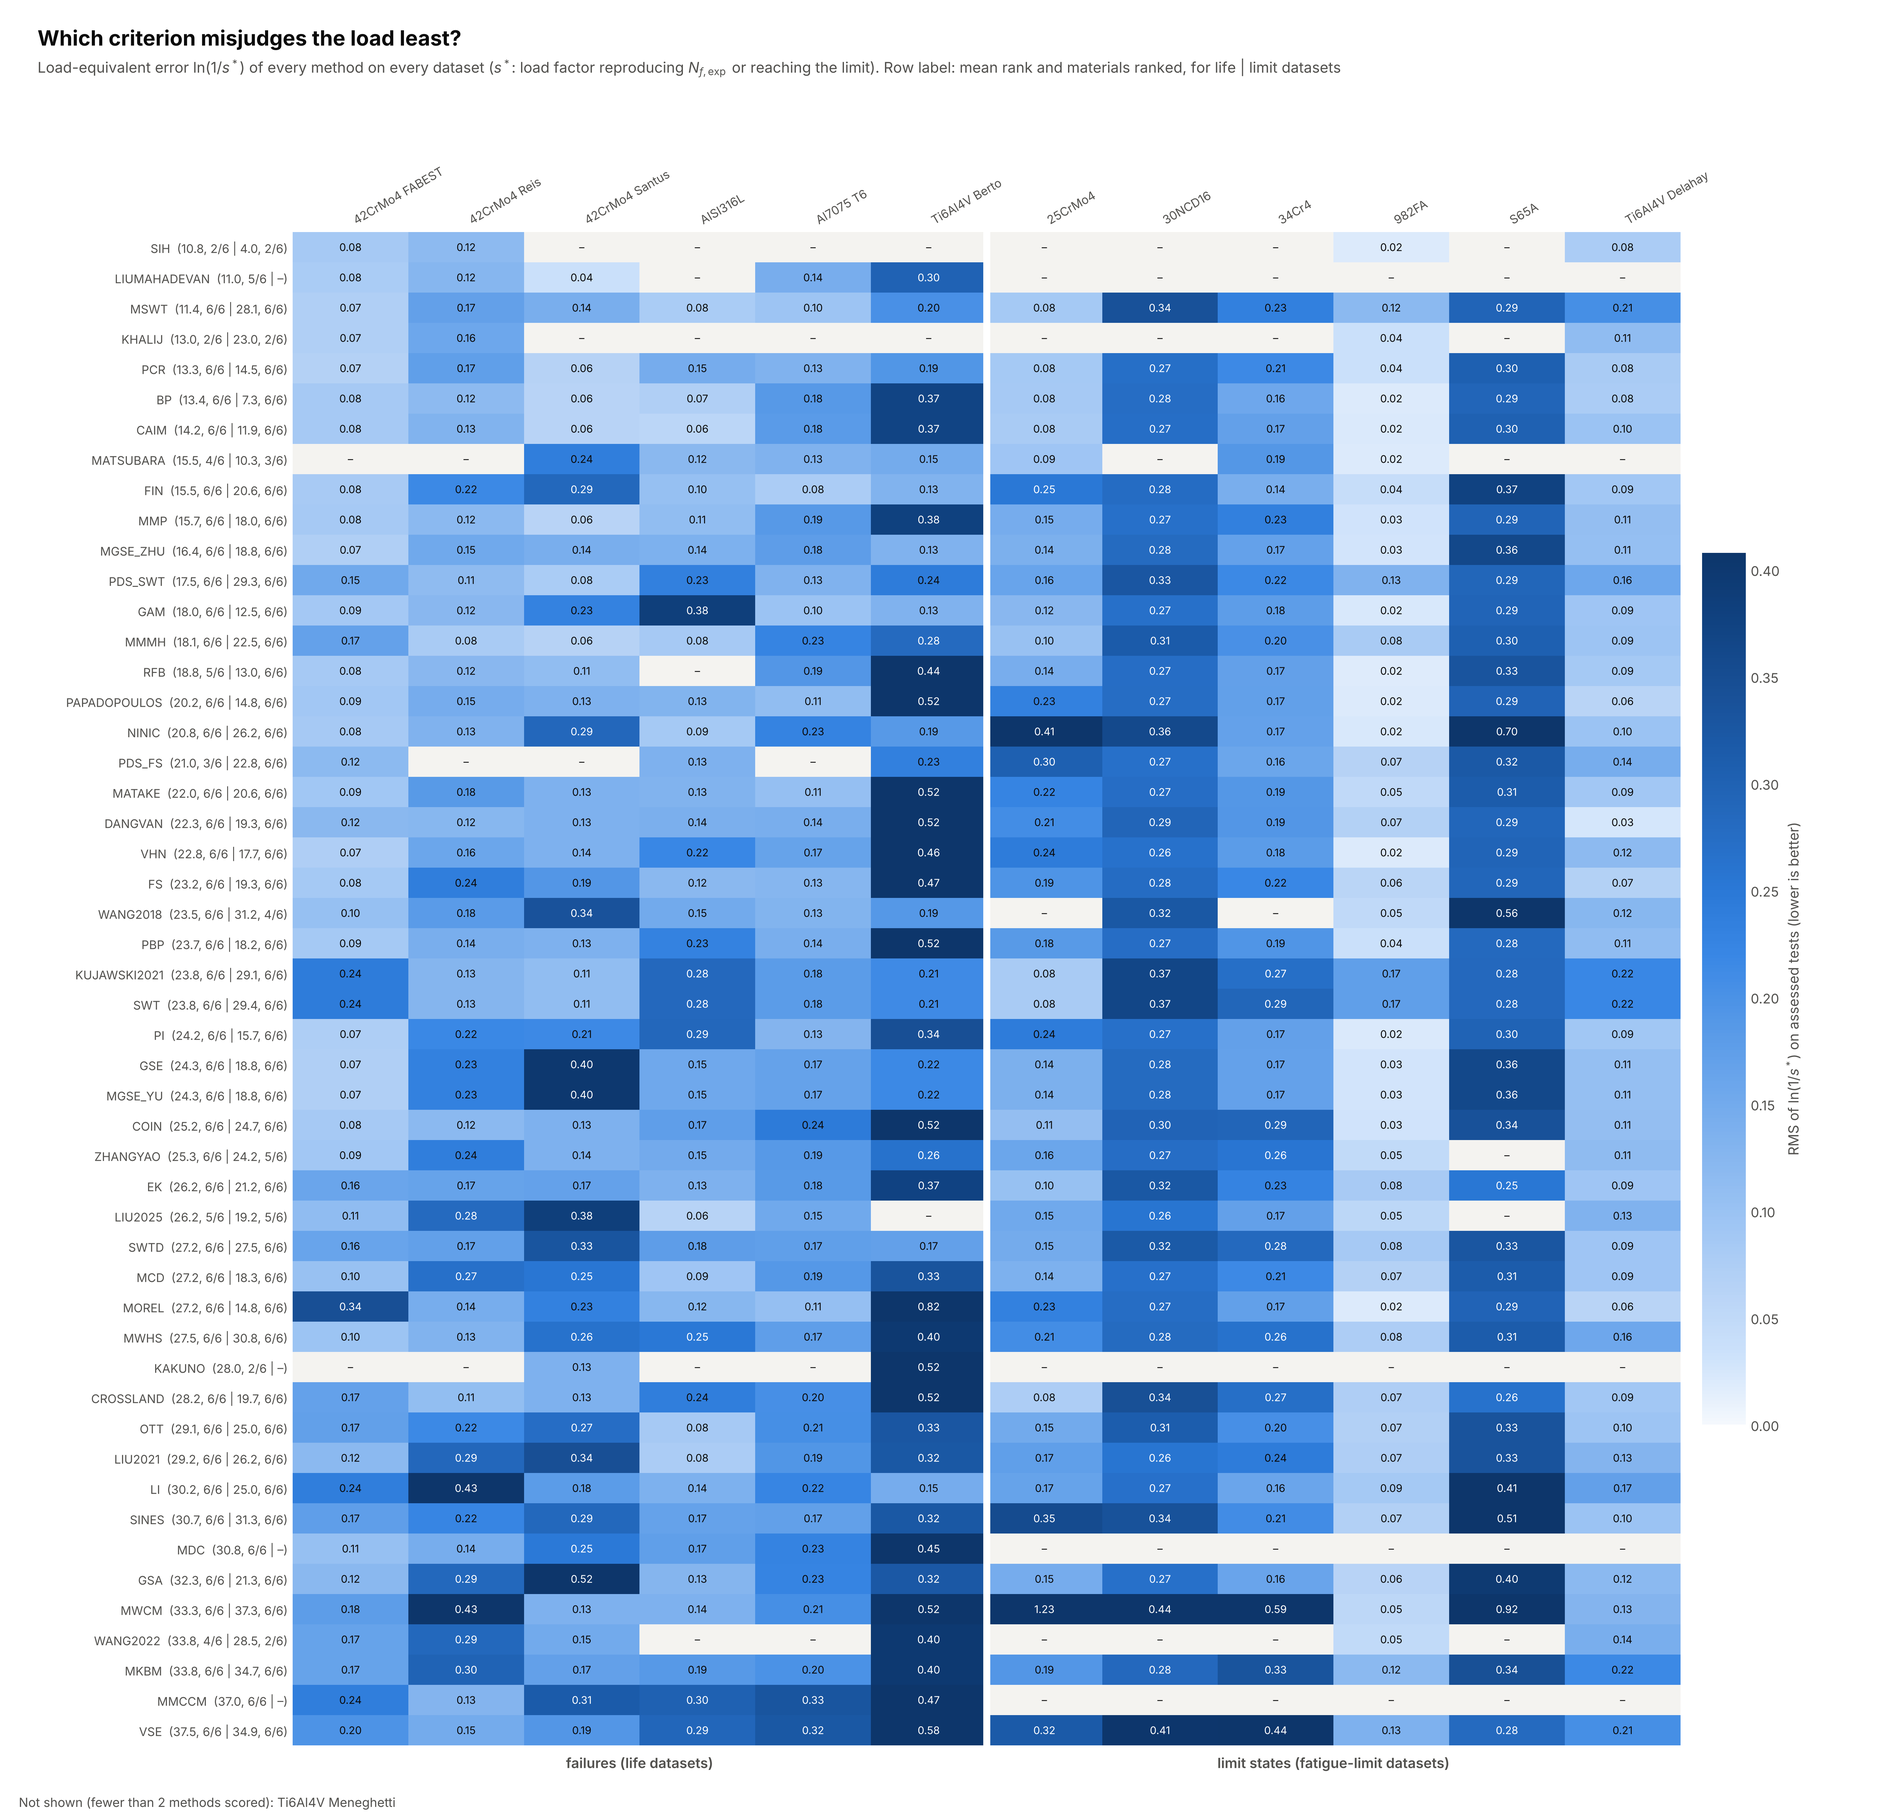
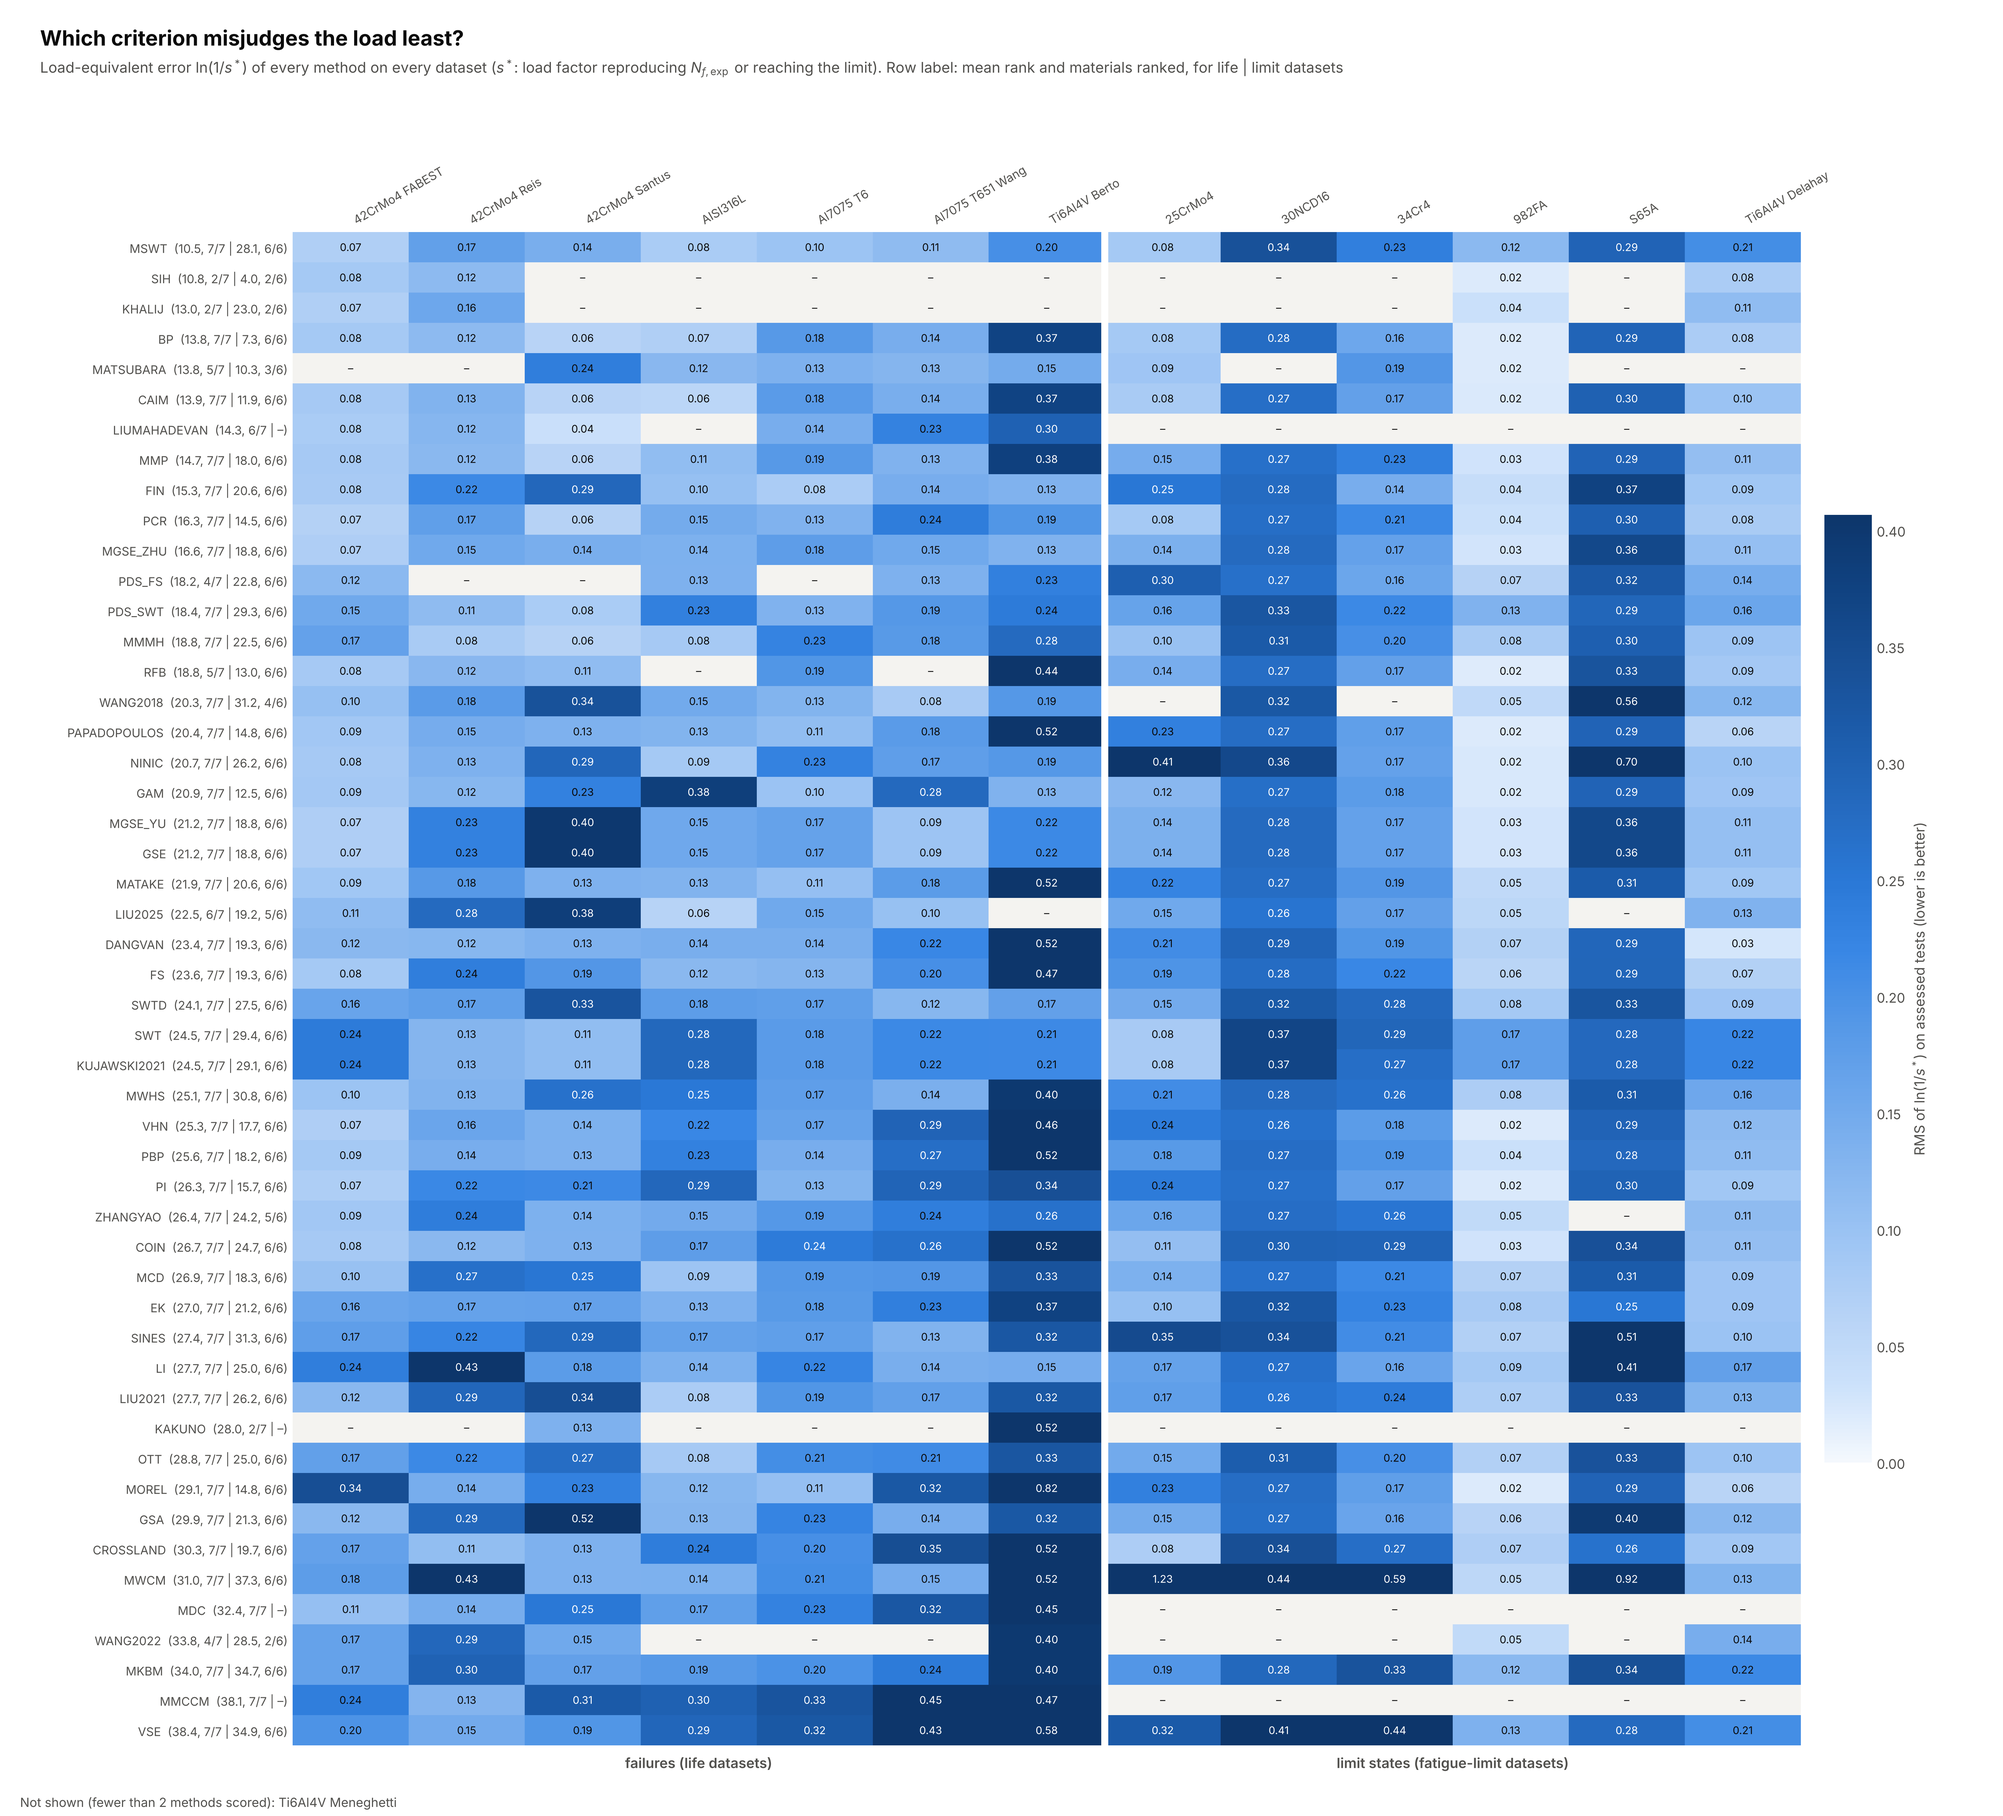
Add Al7075_T651_Wang to the homepage ranking
45 models run on the new workbook; ranking CSV, manifest and figure
regenerated; CHANGELOG and checkpoint.

Claude-Session: https://claude.ai/code/session_01KzHgFiC4WA789boM7p2Bhj

diff --git a/CHANGELOG.md b/CHANGELOG.md
@@ -6,6 +6,21 @@ Finding IDs (F, U, P, N) refer to the audit ledgers kept with the carry-forward 
 
 ## [Unreleased] (carry-forward of October 2026)
 
+### New dataset: 7075-T651 of Wang, Shang, Sun & Chen (2018) (maintainer decision, 16 November 2026)
+
+- New workbook `18_Al7075_T651_Wang.xlsx`: 52 constant-amplitude failures of thin-walled tubes.
+  - Tests: uniaxial and torsion at R = -1 and with means; tension-torsion with means at 0-180
+    deg.
+  - Built by `tools/build_wang_al7075_t651.py` from Tables 1-5. The transcription is shared with
+    the WANG2018 tests.
+  - Sigm1 and Taum1 are the Table 2 S-N curves at 1e6 cycles; nu = E/(2G) - 1.
+- Manifest, provenance and dataset tests (`tests/test_wang_al7075_dataset.py`).
+- The dataset joins the homepage ranking: 45 models run on it.
+  - Skipped for scope: WANG2022, GOLOS, KHALIJ, KAKUNO (no Sig0), RFB and SIH
+    (t_-1/f_-1 = 0.573).
+  - Skipped for missing constants: TVEIT2025, SSF.
+  - WANG2018 ranks first on it; this is the dataset its authors used, not an independent check.
+
 ### Plane shear amplitude selectable for every method (maintainer decision, 16 November 2026)
 
 - `--shear-amplitude-algorithm` of `multifat-run` and `multifat-calibrate` used to cover Findley

diff --git a/docs/audit-checkpoint.md b/docs/audit-checkpoint.md
@@ -24,7 +24,9 @@
 - Branch `feat/shear-amplitude-option` (stacked on #110): `--shear-amplitude-algorithm` of
   multifat-run / multifat-calibrate for every model exposing `np_shear_rule` (all CP methods, SIH);
   pipeline guard generalised; pipeline itself still method_default.
-- Next action: open the option PR; then the 7075-T651 workbook PR; then backfill LaTeX sheets.
+- #107-#111 merged (16 Nov). Branch `data/al7075-t651-wang`: workbook 18_Al7075_T651_Wang,
+  45 models run, ranking regenerated.
+- Next action: dataset PR; then backfill the LaTeX sheets family by family (46 pending).
 
 ## Issue #18, Observation type (decision d113, 12 November 2026)
 
